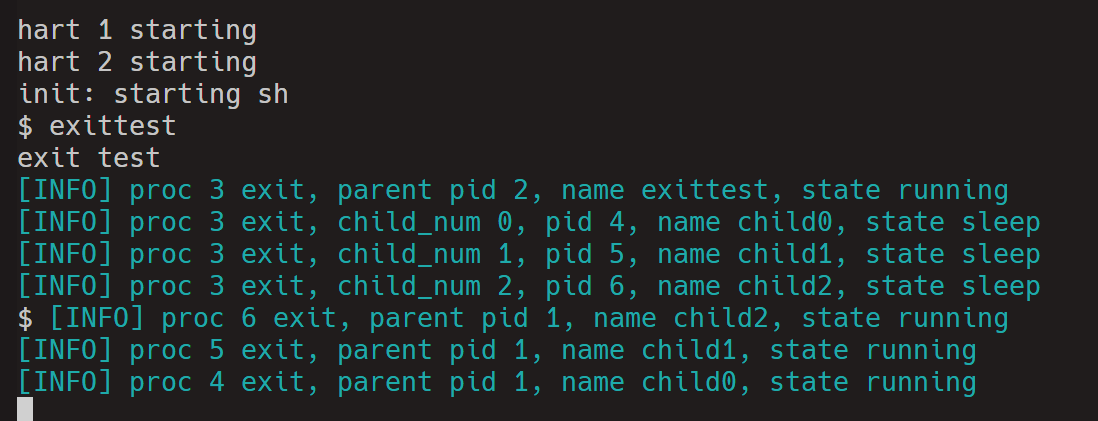
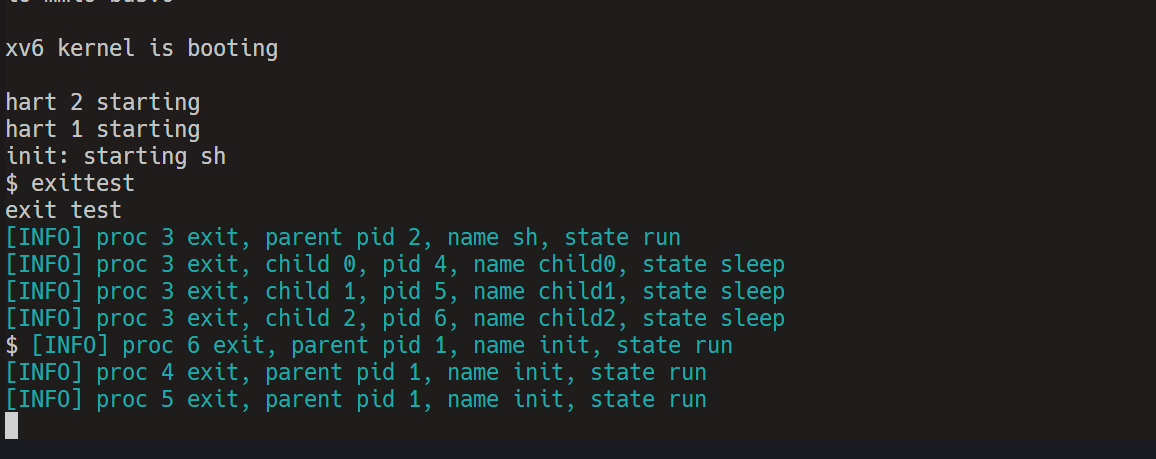
lab2 finish

Changed region(s): [[0.0, 0.0, 0.9599, 1.0]]

diff --git a/kernel/proc.c b/kernel/proc.c
@@ -276,11 +276,11 @@ char *getProcStateName(enum procstate state) {
     case SLEEPING:
       return "sleep";
     case RUNNABLE:
-      return "runnable";
+      return "runble";
     case RUNNING:
-      return "running";
+      return "run";
     case ZOMBIE:
-      return "zombir";
+      return "zombie";
     default:
       return "unknown";
   }
@@ -299,7 +299,7 @@ void reparent(struct proc *p) {
       // because only the parent changes it, and we're the parent.
       acquire(&pp->lock);
       // 打印调用exit进程的子进程消息
-      exit_info("proc %d exit, child_num %d, pid %d, name %s, state %s\n", p->pid, cnt, pp->pid, pp->name,
+      exit_info("proc %d exit, child %d, pid %d, name %s, state %s\n", p->pid, cnt, pp->pid, pp->name,
                 getProcStateName(pp->state));
 
       pp->parent = initproc;
@@ -361,7 +361,7 @@ void exit(int status) {
   acquire(&p->lock);
 
   // 当前进程的父进程信息
-  exit_info("proc %d exit, parent pid %d, name %s, state %s\n", p->pid, p->parent->pid, p->name,
+  exit_info("proc %d exit, parent pid %d, name %s, state %s\n", p->pid, p->parent->pid, p->parent->name,
             getProcStateName(p->state));
   // Give any children to init.
   reparent(p);
@@ -392,7 +392,7 @@ int wait(uint64 addr, int flag) {
   acquire(&p->lock);
 
   if (flag) {
-    printf("flag==1");
+    // printf("flag==1");
     release(&p->lock);
     return -1;
   }

diff --git a/kernel/sysproc.c b/kernel/sysproc.c
@@ -7,6 +7,31 @@
 #include "spinlock.h"
 #include "proc.h"
 
+uint64 sys_yield(void){
+  struct proc *p = myproc();
+  // 打印进程的内核线程上下文被保存的地址范围
+  struct context *p_context = &p->context;
+  struct context *endPtr = (struct context *)((char *)p_context + sizeof(struct context));
+  printf("Save the context of the process to the memory region from address %p to %p\n", (void *)p_context, (void *)endPtr);
+  // 打印pid和pc
+  printf("Current running process pid is %d and user pc is %p\n", p->pid, p->trapframe->epc);
+  //找到下一个runnable
+  for(p = proc; p < &proc[NPROC]; p++){
+    acquire(&p->lock);
+    if (p->state == RUNNABLE){
+      printf("Next runnable process pid is %d and user pc is %p\n", p->pid, p->trapframe->epc);
+      release(&p->lock);
+      break;
+    }
+    release(&p->lock);
+  }
+  //挂起
+  yield();
+  // printf("Next runnable process pid is %d and user pc is %p\n", p->pid, p->trapframe->epc);
+  return 0;
+}
+
+
 uint64 sys_exit(void) {
   int n;
   if (argint(0, &n) < 0) return -1;

diff --git a/kernel/syscall.c b/kernel/syscall.c
@@ -89,6 +89,7 @@ extern uint64 sys_wait(void);
 extern uint64 sys_write(void);
 extern uint64 sys_uptime(void);
 extern uint64 sys_rename(void);
+extern uint64 sys_yield(void);
 
 static uint64 (*syscalls[])(void) = {
     [SYS_fork] sys_fork,   [SYS_exit] sys_exit,     [SYS_wait] sys_wait,     [SYS_pipe] sys_pipe,
@@ -96,7 +97,7 @@ static uint64 (*syscalls[])(void) = {
     [SYS_chdir] sys_chdir, [SYS_dup] sys_dup,       [SYS_getpid] sys_getpid, [SYS_sbrk] sys_sbrk,
     [SYS_sleep] sys_sleep, [SYS_uptime] sys_uptime, [SYS_open] sys_open,     [SYS_write] sys_write,
     [SYS_mknod] sys_mknod, [SYS_unlink] sys_unlink, [SYS_link] sys_link,     [SYS_mkdir] sys_mkdir,
-    [SYS_close] sys_close, [SYS_rename] sys_rename,
+    [SYS_close] sys_close, [SYS_rename] sys_rename, [SYS_yield] sys_yield,
 };
 
 void syscall(void) {

diff --git a/kernel/proc.h b/kernel/proc.h
@@ -28,6 +28,7 @@ struct cpu {
 
 extern struct cpu cpus[NCPU];
 
+
 // per-process data for the trap handling code in trampoline.S.
 // sits in a page by itself just under the trampoline page in the
 // user page table. not specially mapped in the kernel page table.
@@ -104,3 +105,5 @@ struct proc {
   struct inode *cwd;           // Current directory
   char name[16];               // Process name (debugging)
 };
+
+extern struct proc proc[NPROC];

diff --git a/user/user.h b/user/user.h
@@ -24,6 +24,7 @@ char* sbrk(int);
 int sleep(int);
 int uptime(void);
 int rename(const char*);
+int yield(void);
 
 // ulib.c
 int stat(const char*, struct stat*);

diff --git a/kernel/syscall.h b/kernel/syscall.h
@@ -21,3 +21,4 @@
 #define SYS_mkdir  20
 #define SYS_close  21
 #define SYS_rename 22
+#define SYS_yield  23

diff --git a/README.md b/README.md
@@ -3,3 +3,7 @@
 ![alt text](assets/image.png)
 ## task2 waittest
 ![alt text](assets/image-1.png)
+## task3 yield
+![alt text](assets/image-2.png)
+## make grade
+![alt text](assets/image-3.png)
